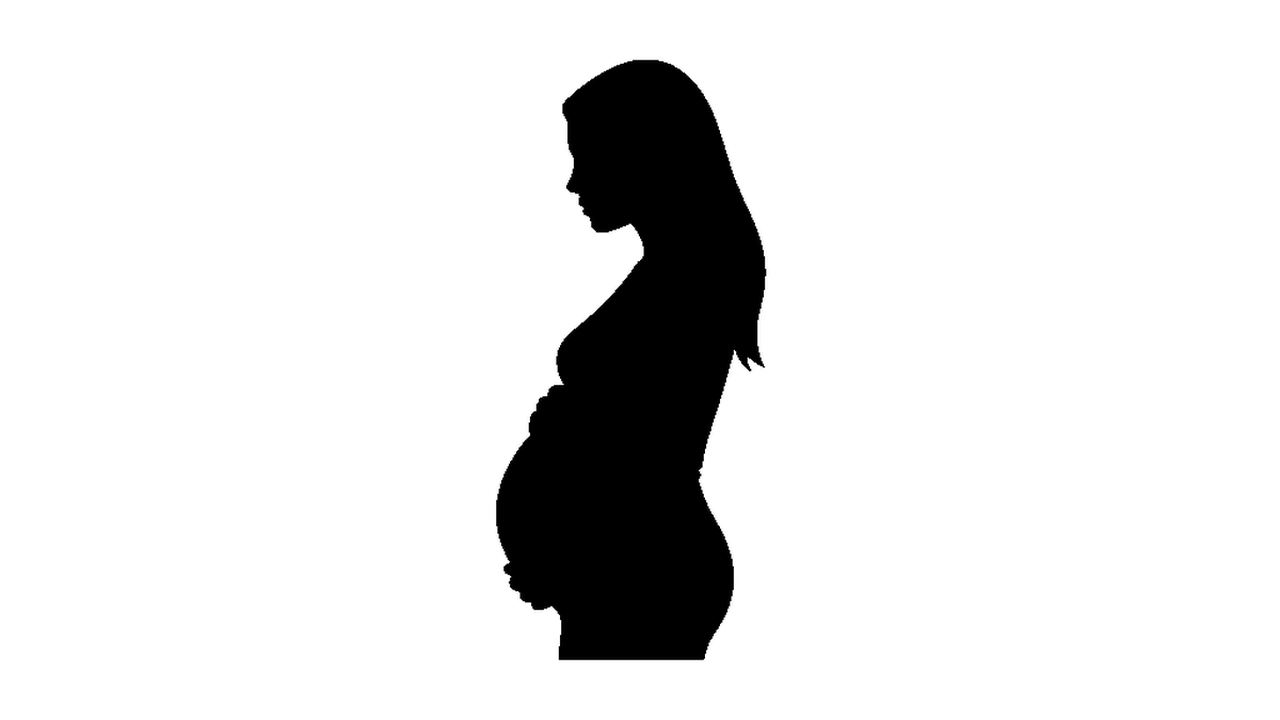
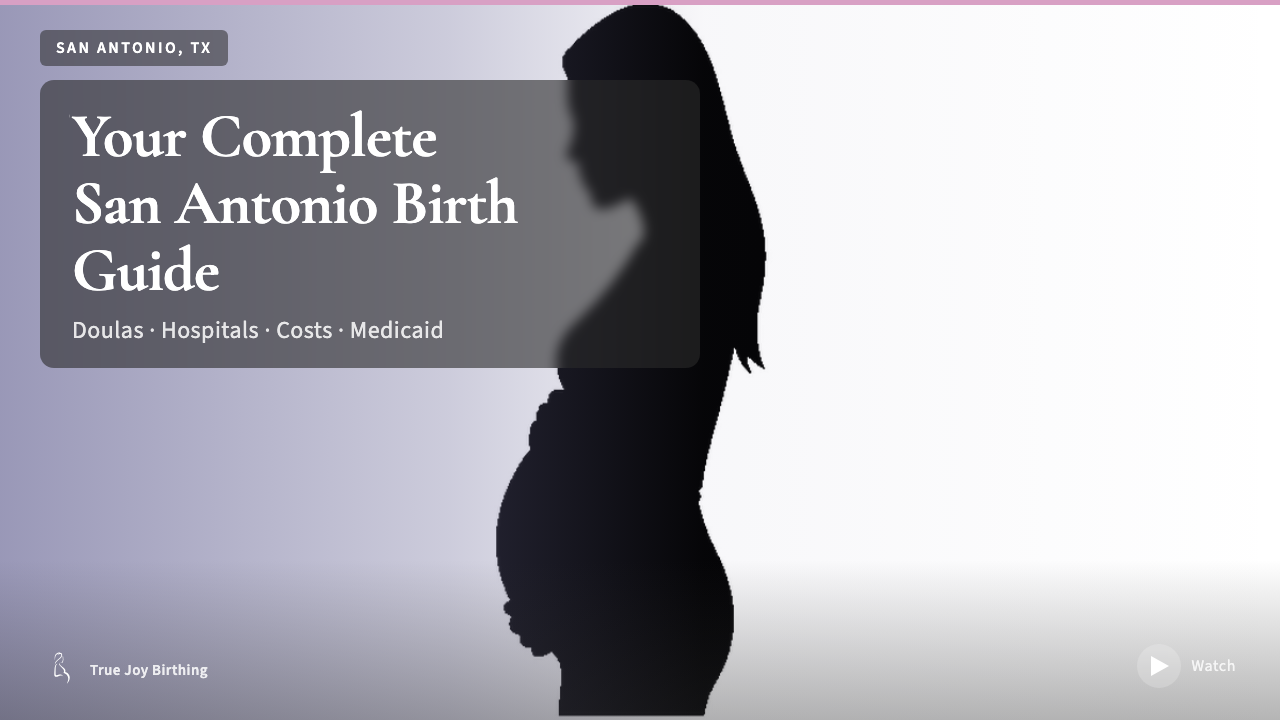
san-antonio-tx: re-render video (hero skyline-v4, cost $700-$3,000, 5 providers), add embed gxNz7I7yZLw [preflight: pass]

diff --git a/src/data/video-embeds.ts b/src/data/video-embeds.ts
@@ -1552,4 +1552,11 @@ export const cityVideoEmbeds: Record<string, CityVideoEmbed> = {
       [361, "Your next step"],
     ],
   },
+  "san-antonio-tx": {
+    videoId: "gxNz7I7yZLw",
+    title: "San Antonio Doula & Birth Plan Guide: Costs, Hospitals & Medicaid (First-Time Mom)",
+    description: "Watch the full San Antonio birth guide — doulas, hospitals, birth centers, costs, and Texas Medicaid coverage, all in about 4 minutes.",
+    duration: "PT4M19S",
+    uploadDate: "2026-08-11T00:00:00-05:00",
+  },
 };
